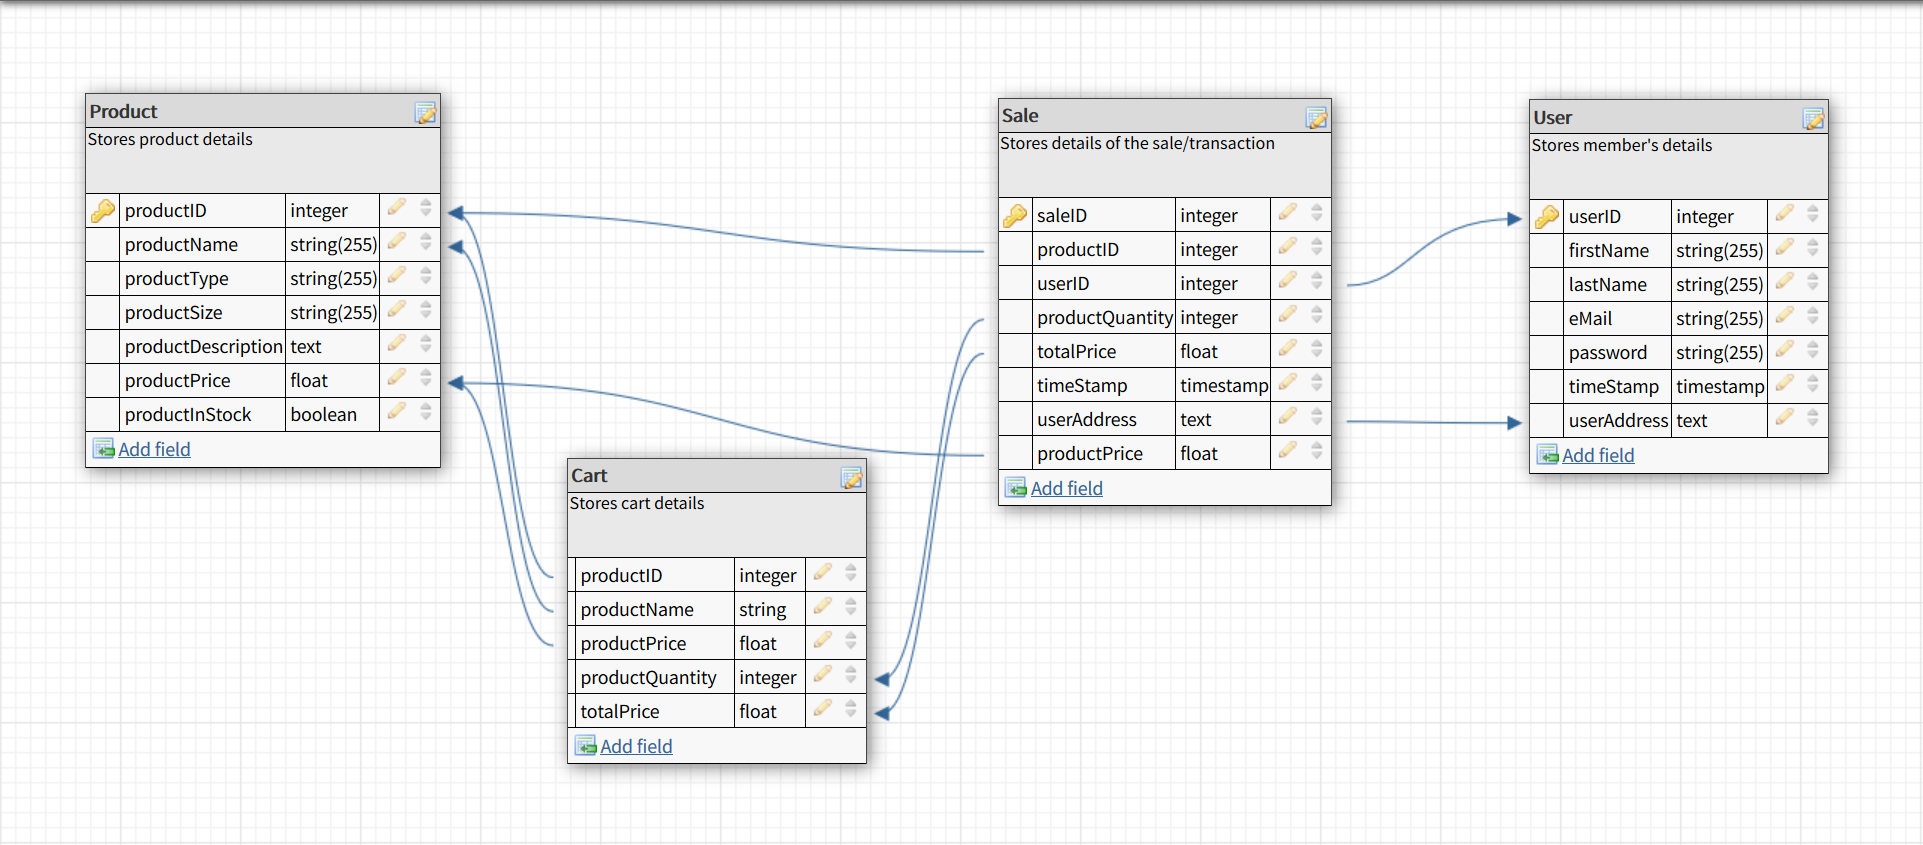
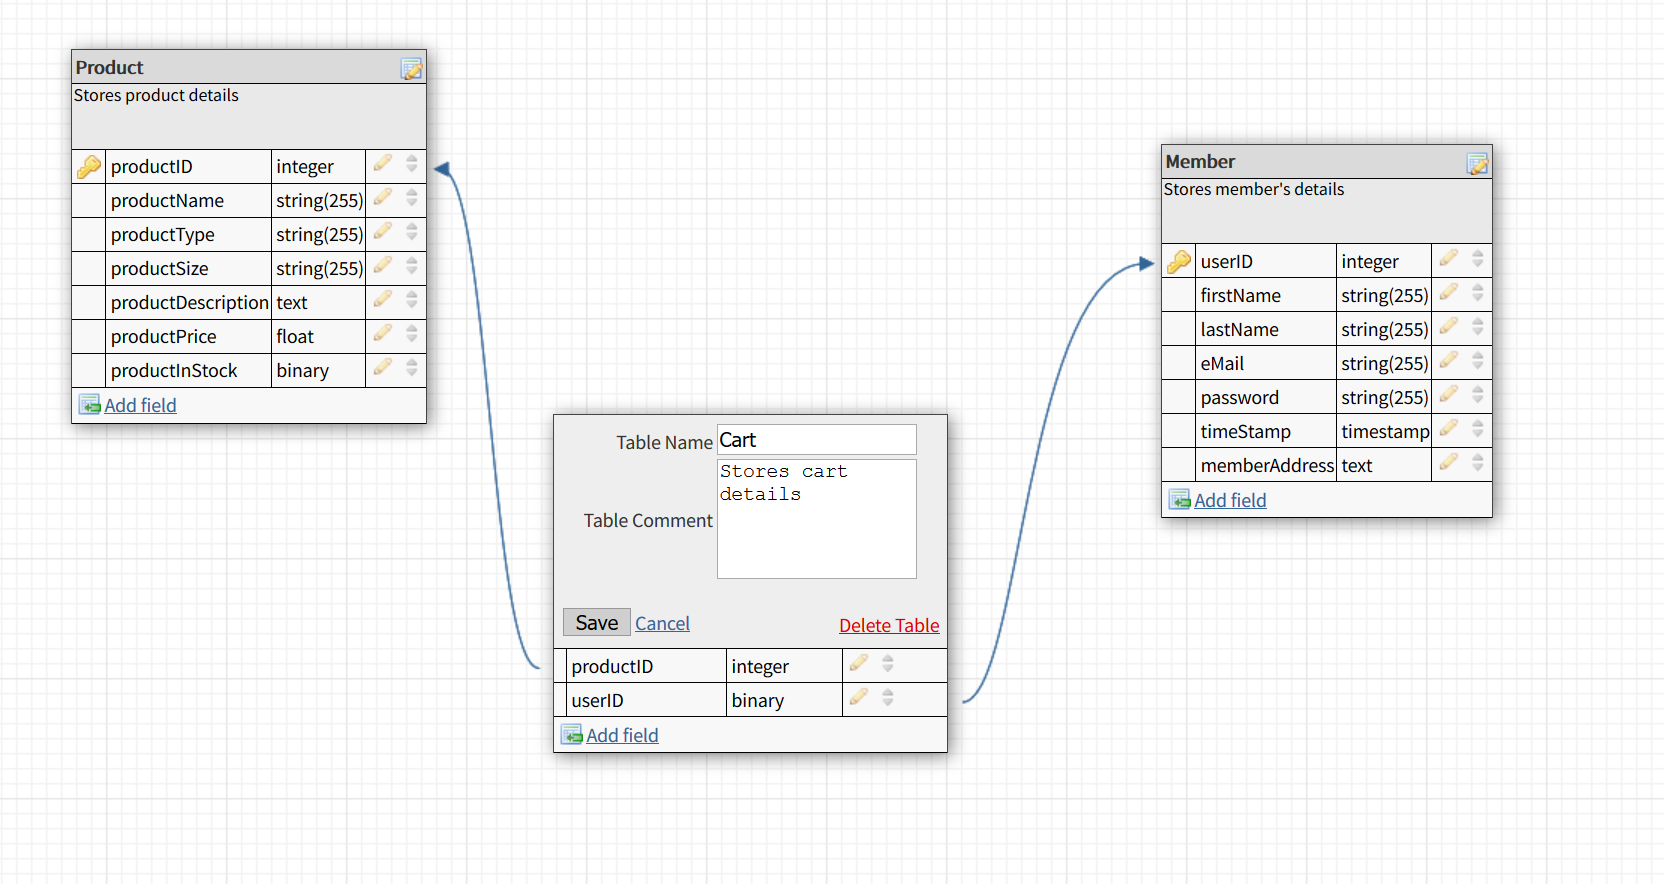
Changed table rows/columns in database and minor text fixes
I deleted many things from the database such as productname and price in the cart table because I didn't fully understand how it worked. Apparently I didn't need it because it would take the data from the productID which is cool. Also changed "Jar" to "Flask" in shop.php because it's supposed to be a flask

Changed region(s): [[0.0, 0.0, 1.0, 0.9231]]

diff --git a/shop.php b/shop.php
@@ -112,7 +112,7 @@ include"conn.php";
 				<div class="product-card">
 					<img src="images/flask-m.jpg" alt="A medium-sized flask filled with water" />
 					<div class="product-details">
-						<h5>Medium Jar of Water</h5>
+						<h5>Medium Flask of Water</h5>
 						<h6>Price: $4.99</h6>
 					</div>
 				</div>
